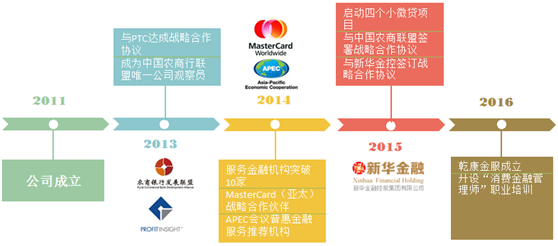
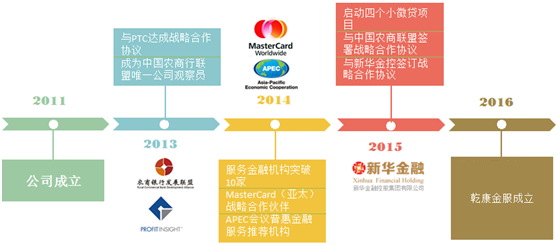
[mod]

Changed region(s): [[0.8226, 0.6545, 1.0, 0.8252]]

diff --git a/scapp/templates/qkly/qkly.html b/scapp/templates/qkly/qkly.html
@@ -94,11 +94,11 @@
 			<div onclick="$('.Tab').hide();$('#zp4').show();">
 				<img  src="../../static/img/sc31.jpg"/>
 				<p style="line-height:3em;">互联网消费金融管理师</p>
-			</div>-->
+			</div>
 			<div onclick="$('.Tab').hide();$('#glspx').show();">
 				<img src="../../static/img/xfjr1.jpg"/>
 				<p style="line-height:3em;">消费金融管理师培训</p>
-			</div>
+			</div>-->
 			<div>
 				<img src="../../static/img/xfjr3.jpg"/>
 				<p style="line-height:3em;">消费金融平台运营</p>
@@ -319,23 +319,23 @@
 					<p id="ms4"><font>4、实施</font>面向金融机构提供消费金融应用系统的实施，乾康金服成熟的系统产品包括：渠道接入、客户营销、风控与反欺诈、资产催收等</p>
 				</div>	
 			</div>
-			<div style="position:relative;right:-120%;" class="dh" id="ywly2">
+			<!-- <div style="position:relative;right:-120%;" class="dh" id="ywly2">
 				<h1 class="tip" style="margin-top:80px;">二、消费金融事务</h1>
-				<p>乾康金服<!-- 与工信部中国互联网银行研究院深度合作， -->在消费金融领域深耕细作，目前正在合作开办消费金融从业者培训课程。</p>
-				<img src="../../static/img/xfjr1.png" class="img3"/>
+				<p>乾康金服<!-- 与工信部中国互联网银行研究院深度合作， --><!--在消费金融领域深耕细作，目前正在合作开办消费金融从业者培训课程。</p>
+				<!-- <img src="../../static/img/xfjr1.png" class="img3"/>
 				<img src="../../static/img/xfjr2.png" class="img3"/>
 				<img src="../../static/img/xfjr3.png" class="img3"/>				
-			</div>
-			<div style="position:relative;left:-120%;" class="dh" id="ywly3">
-				<h1 class="tip" style="width:100%;display:block;float:left;">三、消费金融获客渠道举例</h1>
+			</div> -->
+			<div style="position:relative;right:-120%;" class="dh" id="ywly2">
+				<h1 class="tip" style="width:100%;display:block;float:left;margin-top:80px;">二、消费金融获客渠道举例</h1>
 				<p style="width:50%;display:inline-block;">1、北京华信电子企业集团	</p><p style="width:50%;display:inline-block;">2、乐家购物	</p>
 				<img src="../../static/img/xfjr4.png" class="img2"/>
 				<img src="../../static/img/xfjr5.png" class="img2"/><br/>
-				<h1 class="tip">四、客户导流渠道</h1>
+				<h1 class="tip">三、客户导流渠道</h1>
 				<p>1、网上商城&nbsp;&nbsp;&nbsp;&nbsp;&nbsp;&nbsp;2、实体商圈&nbsp;&nbsp;&nbsp;&nbsp;&nbsp;&nbsp;3、微信商圈</p>
 			</div>
-			<div style="position:relative;right:-120%;" class="dh" id="ywly4">
-				<h1 class="tip">五、消费金融系统</h1>
+			<div style="position:relative;left:-120%;" class="dh" id="ywly3">
+				<h1 class="tip">四、消费金融系统</h1>
 				<p>1、全流程风险控制</p><p>客户信息管理（进件）------综合风险管理------授信平台------渠道平台管理（打通消费金融生态链）</p><br/><br/>
 				
 				<img src="../../static/img/xfjr6.png" class="dh" style="width:40%;margin-right:1.5%;float:right;margin-top:1em;"/>

diff --git a/scapp/templates/qkly/qkly_EN.html b/scapp/templates/qkly/qkly_EN.html
@@ -95,10 +95,10 @@
 				<img src="../../static/img/xfjr2.jpg"/>
 				<p style="line-height:1.5em;">Consumer finance <br/>business</p>
 			</div>
-			<div onclick="$('.Tab').hide();$('#glspx').show();">
+			<!--<div onclick="$('.Tab').hide();$('#glspx').show();">
 				<img src="../../static/img/xfjr1.jpg"/>
 				<p style="line-height:1.5em;">Consumer Finance Manager Training</p>
-			</div>
+			</div>-->
 			<div>
 				<img src="../../static/img/xfjr3.jpg"/>
 				<p style="line-height:1.5em;">Consumer finance platform operators</p>
@@ -319,23 +319,23 @@
 					<p id="ms8"><font>4. Implement</font>Consumer-oriented financial institutions to provide financial application system implementation, Kim Kang dry clothes mature system products...</p>
 				</div>	
 			</div>
-			<div style="position:relative;right:-120%;" id="ywly2" class="dh">
+			<!--<div style="position:relative;right:-120%;" id="ywly2" class="dh">
 				<h1 class="tip" style="margin-top:130px;">TEO.Consumer Financial Services</h1>
 				<p>Dry clothes Kim Kang-depth cooperation with the Ministry of Finance Research Institute of the Chinese Internet, the consumer finance Plough, is currently working to offer consumer finance professional training courses.</p>
 				<img src="../../static/img/xfjr1.png" class="img3"/>
 				<img src="../../static/img/xfjr2.png" class="img3"/>
 				<img src="../../static/img/xfjr3.png" class="img3"/>				
-			</div>
-			<div style="position:relative;left:-120%;" id="ywly3" class="dh">
-				<h1 class="tip"><br/><br/>TREE. Examples consumer finance acquisition channels</h1>
+			</div>-->
+			<div style="position:relative;right:-120%;" id="ywly2" class="dh">
+				<h1 class="tip" ><br/><br/>TEO. Examples consumer finance acquisition channels</h1>
 				<p style="width:50%;display:inline-block;">1. Beijing Huaxin Electronics Enterprise</p><p style="width:50%;display:inline-block;">2. Roca Shopping	</p>
 				<img src="../../static/img/xfjr4.png" class="img2"/>
 				<img src="../../static/img/xfjr5.png" class="img2"/>
-				<h1 class="tip">FOUR.Customer diversion channel</h1>
+				<h1 class="tip">TREE.Customer diversion channel</h1>
 				<p>1. Online Store&nbsp;&nbsp;&nbsp;&nbsp;&nbsp;&nbsp;2. Entity District&nbsp;&nbsp;&nbsp;&nbsp;&nbsp;&nbsp;3. WeChat district</p>
 			</div>
-			<div style="position:relative;right:-120%;" id="ywly4" class="dh">
-				<h1 class="tip">FIVE.Consumer finance system</h1>
+			<div style="position:relative;left:-120%;" id="ywly3" class="dh">
+				<h1 class="tip">FOUR.Consumer finance system</h1>
 				<p>1. The whole process of risk control</p><p>Customer Information Management (into pieces)------Integrated Risk Management------Credit platform------Channel Platform Management (open up consumer finance ecosystem)</p><br/><br/>
 				<p>2. Credit platform</p>
 				<p><b>Advantage:</b></p>
